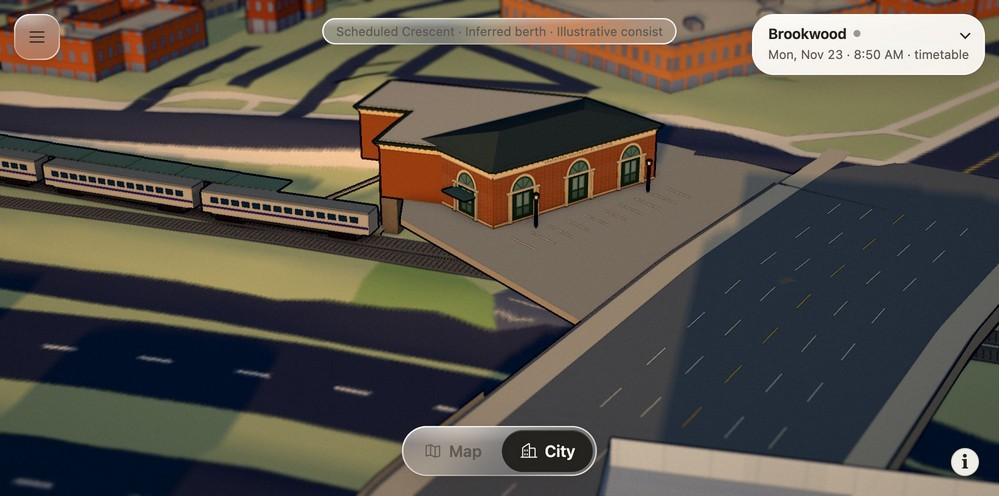
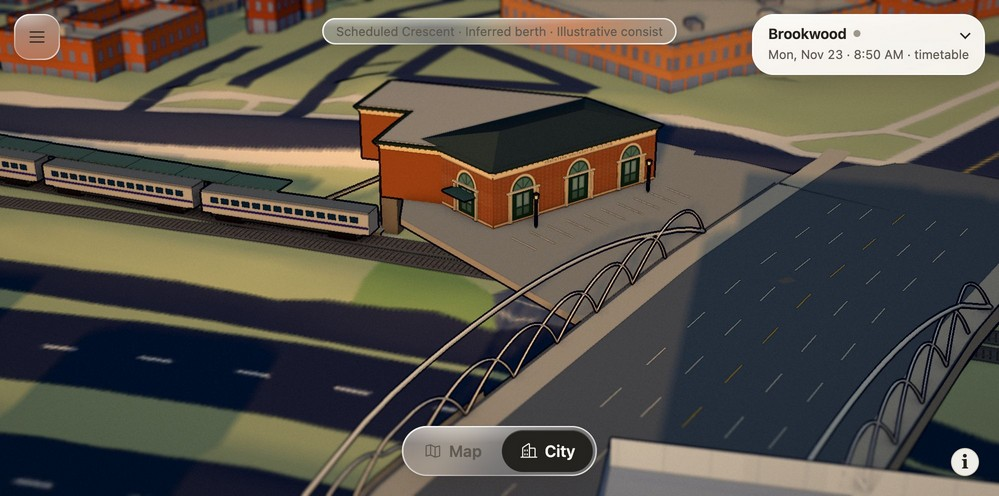
Keep uncut Brookwood terrain on model failure and identify intercity stock

Changed region(s): [[0.2793, 0.4234, 0.7137, 1.0], [0.8068, 0.5746, 0.993, 0.9375]]

diff --git a/web/src/city/city.ts b/web/src/city/city.ts
@@ -198,6 +198,22 @@ export async function createCity(container: HTMLElement, rf: RoutesFile, quality
   const midtown = query.get('board') === 'midtown';
   const brookwoodStudy = midtown && query.get('site') === 'brookwood';
   let brookwood: ReturnType<typeof import('./brookwood').createBrookwood> | undefined;
+  let preparedBrookwood: typeof brookwood;
+  let railModule: Promise<typeof import('./brookwood') | undefined> | undefined;
+  async function brookwoodGrid(spec: GroundManifest, bytes: ArrayBuffer) {
+    // Prepare the station before either row is cut. Both rows retain the original
+    // surface and generic structures if the chunk or the model is unavailable.
+    railModule ??= import('./brookwood').then(mod => {
+      if (eastController.signal.aborted) return;
+      preparedBrookwood = mod.createBrookwood(spec.vertical.sceneZeroNavd88M);
+      return mod;
+    }).catch(error => {
+      console.warn('Brookwood station unavailable', error);
+      return undefined;
+    });
+    const mod = await railModule;
+    return mod ? mod.brookwoodGrid(spec, bytes) : new GroundGrid(spec, bytes);
+  }
   const replaced: {parent: THREE.Object3D; object: THREE.Object3D}[] = [];
   const requestedSquare = midtown || query.get('board') === 'square';
   const square = grid && requestedSquare ? await import('./square-mosaic').catch(error => {
@@ -206,7 +222,7 @@ export async function createCity(container: HTMLElement, rf: RoutesFile, quality
   }) : undefined;
   options.signal?.throwIfAborted();
   if (requestedSquare && !square) options.areaNote?.('Square preview unavailable. Downtown is available.');
-  const mosaic = square && new square.SquareMosaic(DATA, midtown);
+  const mosaic = square && new square.SquareMosaic(DATA, midtown, midtown ? brookwoodGrid : undefined);
   const previewEast = !!mosaic || (!!grid && query.get('east') === 'king-memorial');
   const previewNorth = !!mosaic || (previewEast && query.get('north') === 'sweet-auburn');
   const cut = prepareEastCut(rf, manifest, grid, vd.terrainTransport?.rail);
@@ -258,7 +274,7 @@ export async function createCity(container: HTMLElement, rf: RoutesFile, quality
   const world = new DowntownWorld({ ...vd, roads: groundRoads }, null, worldOptions);
   const disposeBoard = () => {
     eastController.abort();
-    brookwood?.dispose();
+    preparedBrookwood?.dispose();
     for (const {parent, object} of replaced) parent.add(object);
     mosaic?.dispose();
     eastRail?.dispose();
@@ -702,10 +718,12 @@ export async function createCity(container: HTMLElement, rf: RoutesFile, quality
       ? 'Frame the full board' : `Show full board (${mosaic.areas.size}/${mosaic.areaCount} areas loaded)`;
     renderer.shadowMap.needsUpdate = true;
   }
-  async function attachBrookwood(area: NonNullable<typeof east>) {
-    const { createBrookwood } = await import('./brookwood');
-    if (eastController.signal.aborted || brookwood) return;
-    brookwood = createBrookwood(area.grid.manifest.vertical.sceneZeroNavd88M, area.groundAt);
+  function attachBrookwood(area: NonNullable<typeof east>) {
+    if (!preparedBrookwood) {
+      areaResult('brookwood-rail', 'Brookwood station model unavailable.');
+      return;
+    }
+    brookwood = preparedBrookwood;
     scene.add(brookwood.group);
     scenery.push(brookwood.structure);
     for (const id of ['osm:way:265350477', 'osm:way:38978515']) {
@@ -721,7 +739,7 @@ export async function createCity(container: HTMLElement, rf: RoutesFile, quality
     mosaic?.approach(x, z, quality, eastController.signal, (added, target) => {
       for (const area of added.values()) addArea(area);
       const atl = added.get('brookwood-station');
-      if (atl) void attachBrookwood(atl).catch(() => areaResult('brookwood-rail', 'Brookwood station model unavailable.'));
+      if (atl) attachBrookwood(atl);
       updatePlinth(mosaicBase());
       extendConnectorTraffic();
       const first = added.keys().next().value!;

diff --git a/web/src/city/brookwood.ts b/web/src/city/brookwood.ts
@@ -115,9 +115,7 @@ function solid(b: Builder, ring: P2[], bottom: number, top: number, color: strin
   g.dispose();
 }
 
-type GroundAt = (x: number, z: number) => number | null;
-
-function station(b: Builder, lamps: Builder, litPlatform: Builder, zero: number, groundAt: GroundAt) {
+function station(b: Builder, lamps: Builder, litPlatform: Builder, zero: number) {
   const floor = 273 - zero;
   const forecourt: P2[] = [
     [-115, -5073],
@@ -255,16 +253,35 @@ function station(b: Builder, lamps: Builder, litPlatform: Builder, zero: number,
   b.ribbon(bridge, 34, () => floor, '#7f817c');
   // The DEM drops below street grade at both abutments. Join the deck to the first
   // on-street sample beyond each bank, following the mapped approach centreline.
-  for (const points of [
-    [bridge.pts[0], [10.64, -4988.6], [32.25, -4966.97]],
-    [bridge.pts.at(-1)!, [-69, -5105.52], [-72, -5110]],
-  ] as P2[][]) {
-    const line = new Line(points),
-      end = points.at(-1)!;
-    const bank = groundAt(...end) ?? floor;
+  const approaches: { points: P2[]; bank: number }[] = [
+    { points: [bridge.pts[0], [10.64, -4988.6], [32.25, -4966.97]], bank: 274.04 },
+    { points: [bridge.pts.at(-1)!, [-69, -5105.52], [-72, -5110]], bank: 272.88 },
+  ];
+  for (const approach of approaches) {
+    const line = new Line(approach.points),
+      bank = approach.bank - zero;
     const height = (s: number) => floor + ((bank + 0.12 - floor) * s) / line.length;
     b.ribbon(line, 31, height, '#7f817c');
     for (const d of [-15, 15]) b.ribbon(line.offset(d), 3.1, (s) => height(s) + 0.12, '#c5bdac');
+  }
+  // Twenty minor ribs and two 30-foot gateway arches over the paired sidewalks.
+  // The ribs lean across each walkway; the long outer bow ties their silhouette together.
+  for (const side of [-1, 1]) {
+    function arch(from: number, span: number, rise: number, lean: number, radius: number) {
+      const curve: THREE.Vector3[] = [];
+      for (let j = 0; j <= 16; j++) {
+        const t = j / 16,
+          bow = 4 * t * (1 - t),
+          p = bridge.at(from + t * span);
+        const offset = side * (16.3 - lean * bow);
+        curve.push(new THREE.Vector3(p.x - p.nx * offset, floor + 0.55 + rise * bow, p.z - p.nz * offset));
+      }
+      const tube = new THREE.TubeGeometry(new THREE.CatmullRomCurve3(curve), 24, radius, 6, false);
+      b.addGeometry(tube, '#e1e1d7');
+      tube.dispose();
+    }
+    arch(7, 86, 9.14, 1.1, 0.23);
+    for (let i = 0; i < 10; i++) arch(7 + 7.8 * i, 15.6, 5, 0.9, 0.145);
   }
   // The bridge carries a sidewalk past the forecourt. Keep an opening for station access.
   for (const d of [-13, -4, 4, 13])
@@ -421,7 +438,7 @@ function carGeometry(cab: boolean) {
 }
 
 /** Attach to the City mosaic at its existing vertical datum. */
-export function createBrookwood(sceneZero: number, groundAt: GroundAt) {
+export function createBrookwood(sceneZero: number) {
   const b = new Builder(),
     lamps = new Builder();
   const bed = (x: number) => elevation(x) - sceneZero;
@@ -449,7 +466,7 @@ export function createBrookwood(sceneZero: number, groundAt: GroundAt) {
     for (const off of [-0.7175, 0.7175]) b.ribbon(line.offset(off), 0.085, (_, x) => bed(x) + 0.32, '#b0ae9f');
   }
   const litPlatform = new Builder();
-  station(b, lamps, litPlatform, sceneZero, groundAt);
+  station(b, lamps, litPlatform, sceneZero);
   const group = new THREE.Group(),
     cars = new THREE.Group();
   const material = new THREE.MeshLambertMaterial({ vertexColors: true, side: THREE.DoubleSide });

diff --git a/web/src/square-board/sections.ts b/web/src/square-board/sections.ts
@@ -89,7 +89,9 @@ export async function response(url: string, signal: AbortSignal) {
   return r;
 }
 
-export async function gridAt(path: string, signal: AbortSignal, northBand = false, brookwood = false) {
+export type BrookwoodGrid = (manifest: GroundManifest, bytes: ArrayBuffer) => Promise<GroundGrid>;
+
+export async function gridAt(path: string, signal: AbortSignal, northBand = false, brookwood?: BrookwoodGrid) {
   const [manifest, bytes]: [GroundManifest, ArrayBuffer] = await Promise.all([
     response(path + '/ground.json', signal).then(r => r.json()),
     response(path + '/ground.i16', signal).then(r => r.arrayBuffer()),
@@ -99,14 +101,14 @@ export async function gridAt(path: string, signal: AbortSignal, northBand = fals
   const digest = new Uint8Array(await crypto.subtle.digest('SHA-256', bytes));
   if (Array.from(digest, b => b.toString(16).padStart(2, '0')).join('') !== manifest.sha256)
     throw Error('Ground checksum mismatch at ' + path);
-  if (brookwood) return (await import('../city/brookwood')).brookwoodGrid(manifest, bytes);
+  if (brookwood) return brookwood(manifest, bytes);
   return northBand ? northConnectorGround(manifest, bytes) : new GroundGrid(manifest, bytes);
 }
 
-async function readPatch(id: Patch | MidtownRow, signal: AbortSignal, dataRoot = '/data', brookwood = false) {
+async function readPatch(id: Patch | MidtownRow, signal: AbortSignal, dataRoot = '/data', brookwood?: BrookwoodGrid) {
   const path = dataRoot + '/scene/square-board/' + id;
   const [grid, context]: [GroundGrid, TerrainCity & { name: string }] = await Promise.all([
-    gridAt(path, signal, id === 'north-band', brookwood && (id === 'brookwood-station' || id === 'brookwood-south')), response(path + '/context.json', signal).then(r => r.json()),
+    gridAt(path, signal, id === 'north-band', id === 'brookwood-station' || id === 'brookwood-south' ? brookwood : undefined), response(path + '/context.json', signal).then(r => r.json()),
   ]);
   if (context.name !== id || Object.entries(bounds[id]).some(([k, v]) =>
     grid.manifest.bounds[k as keyof typeof context.bounds] !== v || context.bounds?.[k as keyof typeof context.bounds] !== v) || !context.roads.length || !context.buildings.length)
@@ -114,7 +116,7 @@ async function readPatch(id: Patch | MidtownRow, signal: AbortSignal, dataRoot =
   return { id, grid, context };
 }
 
-export async function addSection(direction: Section, mounted: Map<Board, Area>, quality: TerrainQuality, signal: AbortSignal, options?: { northBuilding?: string; dataRoot?: string; brookwood?: boolean }) {
+export async function addSection(direction: Section, mounted: Map<Board, Area>, quality: TerrainQuality, signal: AbortSignal, options?: { northBuilding?: string; dataRoot?: string; brookwood?: BrookwoodGrid }) {
   const square = direction === 'north' || direction === 'south';
   if (!square && !mounted.has(neighbors[direction][0])) throw Error(direction + ' requires ' + neighbors[direction][0]);
   const ids: (Patch | MidtownRow)[] = square ? [`${direction}-band`, `${direction}-corner`] : [direction];

diff --git a/web/src/city/square-mosaic.ts b/web/src/city/square-mosaic.ts
@@ -1,5 +1,5 @@
 import * as THREE from 'three';
-import { addSection, bounds, midtownRows, connect, joins, type Area, type Board, type Direction, type Section, type TrafficArea } from '../square-board/sections';
+import { addSection, bounds, midtownRows, connect, joins, type Area, type Board, type BrookwoodGrid, type Direction, type Section, type TrafficArea } from '../square-board/sections';
 import type { TerrainQuality } from '../terrain/surface';
 import { PAL } from '../vignette/world';
 
@@ -55,7 +55,7 @@ export function mosaicPlinth(rects: Rect[], bottom: number) {
 }
 
 export class SquareMosaic {
-  constructor(private readonly dataRoot: string, readonly midtown = false) {}
+  constructor(private readonly dataRoot: string, readonly midtown = false, private readonly brookwood?: BrookwoodGrid) {}
   get areaCount() { return 7 + (this.midtown ? midtownRows.length : 0); }
   get northEdge() { return this.midtown ? bounds[midtownRows.at(-1)!].minZ : bounds['north-band'].minZ; }
   private fullBoard = false;
@@ -107,7 +107,7 @@ export class SquareMosaic {
       const id = direction === 'north' || direction === 'south' ? `${direction}-band` as const : direction;
       if (this.patches.has(id) || this.loading.has(direction) || this.failed.has(direction) || signal.aborted) continue;
       this.loading.add(direction);
-      void addSection(direction, this.areas, quality, signal, { northBuilding: summitNorth, brookwood: this.midtown, dataRoot: this.dataRoot }).then(added => {
+      void addSection(direction, this.areas, quality, signal, { northBuilding: summitNorth, brookwood: this.brookwood, dataRoot: this.dataRoot }).then(added => {
         if (signal.aborted) { for (const area of added.values()) area.dispose(); return; }
         for (const [id, area] of added) this.patches.set(id, area);
         const p = this.wanted;

diff --git a/web/src/map/card.ts b/web/src/map/card.ts
@@ -34,10 +34,16 @@ function nextRow(t: TrainState, next: Stop | undefined) {
   return `<dt>Next stop</dt><dd>${esc(place(name))}${eta}</dd>`;
 }
 
-export function trainCard(t: TrainState, route: Route | undefined, next: Stop | undefined, vt: VehicleType | undefined, model?: string) {
+export function trainCard(t: TrainState, route: Route | undefined, next: Stop | undefined, vt: VehicleType | undefined, city = false) {
   const color = route ? routeColor(route) : '#333';
   const name = route?.mode === 'heavy_rail' ? `${titleCase(route.shortName)} Line` : route?.longName ?? 'Train';
-  const units = vt ? `${vt.typicalUnits} × ${model ?? vt.name}` : '';
+  let model: string | undefined;
+  if (city && vt && route?.mode === 'heavy_rail') model = `${vt.typicalUnits} × Stadler CQ400`;
+  if (city && t.routeId === 'amtrak:route:Crescent') {
+    const coaches = Math.max(0, Math.round(t.lengthM.value / 26) - 1);
+    model = coaches ? `Locomotive and ${coaches} ${coaches === 1 ? 'coach' : 'coaches'}` : 'Locomotive';
+  }
+  const units = model ?? (vt ? `${vt.typicalUnits} × ${vt.name}` : '');
   const live = t.s.tier === 'live';
   return `
     <h2><span class="dot" style="background:${esc(color)}"></span>${esc(name)}${t.label ? ` <small>#${esc(t.label)}</small>` : ''}</h2>

diff --git a/web/src/main.ts b/web/src/main.ts
@@ -118,7 +118,7 @@ function renderTrainCard() {
   }
   showCard(
     trainCard(t, schedule.routes.get(t.routeId), t.nextStop ? schedule.stops.get(t.nextStop) : undefined, schedule.vehicleTypes.get(t.vehicleType),
-      view3d.hidden ? undefined : 'Stadler CQ400'),
+      !view3d.hidden),
     !!follow && !view3d.hidden && t.routeId === BLUE,
   );
 }

diff --git a/docs/brookwood-rail.md b/docs/brookwood-rail.md
@@ -19,7 +19,9 @@ Coordinates in the fixture are metres east and south of Five Points, rounded to 
 
 ## Exterior and lighting
 
-Amtrak's street-facing photograph shows three arched openings with green joinery, cream surrounds, brick piers, a pale lettered frieze and deep eaves. The October 2022 oblique view shows the short return and the roof silhouette. These were the latest dated daylight facade angles verified here. No 2026 daylight facade photograph was verified. The March 26, 2026 AP platform view shows bright pale light under a shallow canopy, visible cross-braces and two locomotive headlights. A March 2019 view from the same platform has a distinctly warmer cast. Full-night street-facade lighting is unverified. Canopy extent, details of the lift enclosure, parapet, sash dimensions and fixture spacing are estimated. [Amtrak exterior](https://www.greatamericanstations.com/stations/atlanta-ga-atl/) · [October 2022 return facade](https://commons.wikimedia.org/wiki/File:Peachtree_station,_Atlanta,_Georgia.jpg) · [Amtrak access](https://www.amtrak.com/stations/atl) · [Passenger account and stair photos](https://www.hyperphysics.phy-astr.gsu.edu/Nave-html/S20/trainvis.html) · [March 2026 platform](https://apnews.com/article/e4d8ea591b3b036142c2bf2dee7dff5a) · [March 2019 platform](https://commons.wikimedia.org/wiki/File:Amtrak%27s_Crescent_arrives_at_Peachtree_station_in_Atlanta,_Georgia.jpg)
+Amtrak's street-facing photograph shows three arched openings with green joinery, cream surrounds, brick piers, a pale lettered frieze and deep eaves. The October 2022 oblique view shows the short return and the roof silhouette. A March 2025 daylight Street View panorama from the bridge confirms all three facade bays, the hipped roof, the sidewalk barriers and the gateway arches. This was the latest dated daylight facade verified. The March 26, 2026 AP platform view shows bright pale light under a shallow canopy, visible cross-braces and two locomotive headlights. A March 2019 view from the same platform has a distinctly warmer cast. Full-night street-facade lighting is unverified. Canopy extent, details of the lift enclosure, parapet, sash dimensions and fixture spacing are estimated. [March 2025 bridge approach](https://www.google.com/maps/@?api=1&map_action=pano&pano=ARLzFEJcxvf6NUAmPW54DQ&heading=254&pitch=2&fov=70) · [Amtrak exterior](https://www.greatamericanstations.com/stations/atlanta-ga-atl/) · [October 2022 return facade](https://commons.wikimedia.org/wiki/File:Peachtree_station,_Atlanta,_Georgia.jpg) · [Amtrak access](https://www.amtrak.com/stations/atl) · [Passenger account and stair photos](https://www.hyperphysics.phy-astr.gsu.edu/Nave-html/S20/trainvis.html) · [March 2026 platform](https://apnews.com/article/e4d8ea591b3b036142c2bf2dee7dff5a) · [March 2019 platform](https://commons.wikimedia.org/wiki/File:Amtrak%27s_Crescent_arrives_at_Peachtree_station_in_Atlanta,_Georgia.jpg)
+
+The North Bridge carries two major gateway arches 30 ft (9.14 m) high, and 20 minor arches. The span also has barrier-separated sidewalks and decorative lighting. The model estimates the rib spacing and lean from the March 2025 panorama. The approach bank samples are 274.04 and 272.88 m NAVD88 on the staged grid. [Midtown Alliance project](https://www.midtownatl.com/midtown-alliance/physical-improvements/peachtree-street-north-bridge) · [Georgia SRTA completion report](https://srta.ga.gov/wp-content/uploads/2024/04/GTIB-Status-Update-Report_April-2024.pdf)
 
 ## City integration and inspection
 
